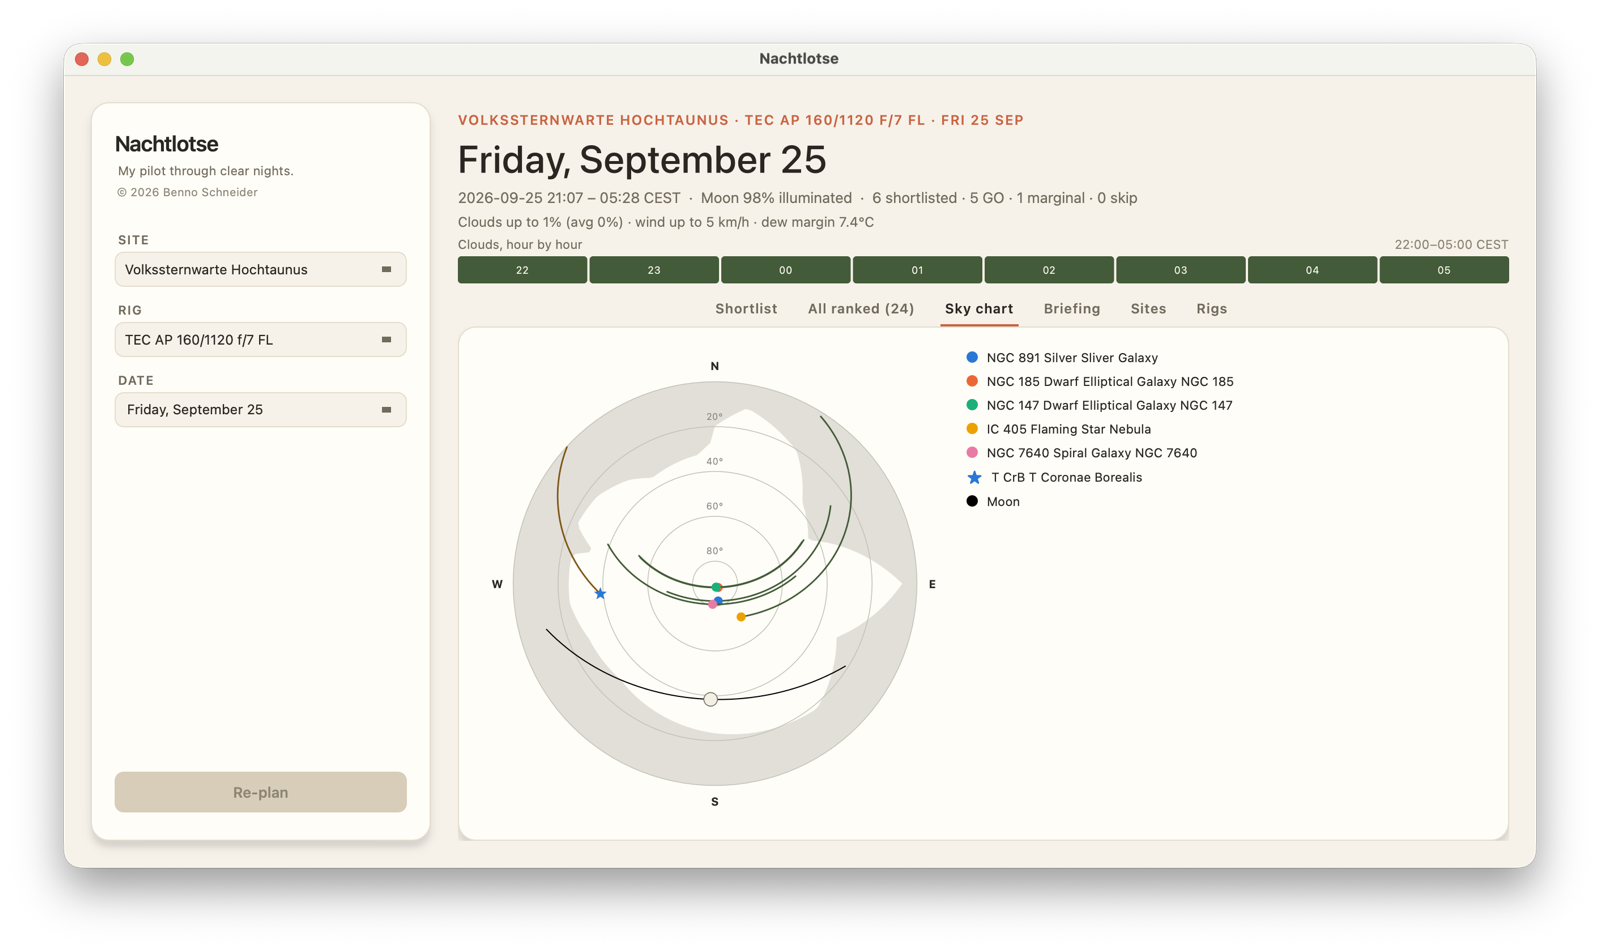
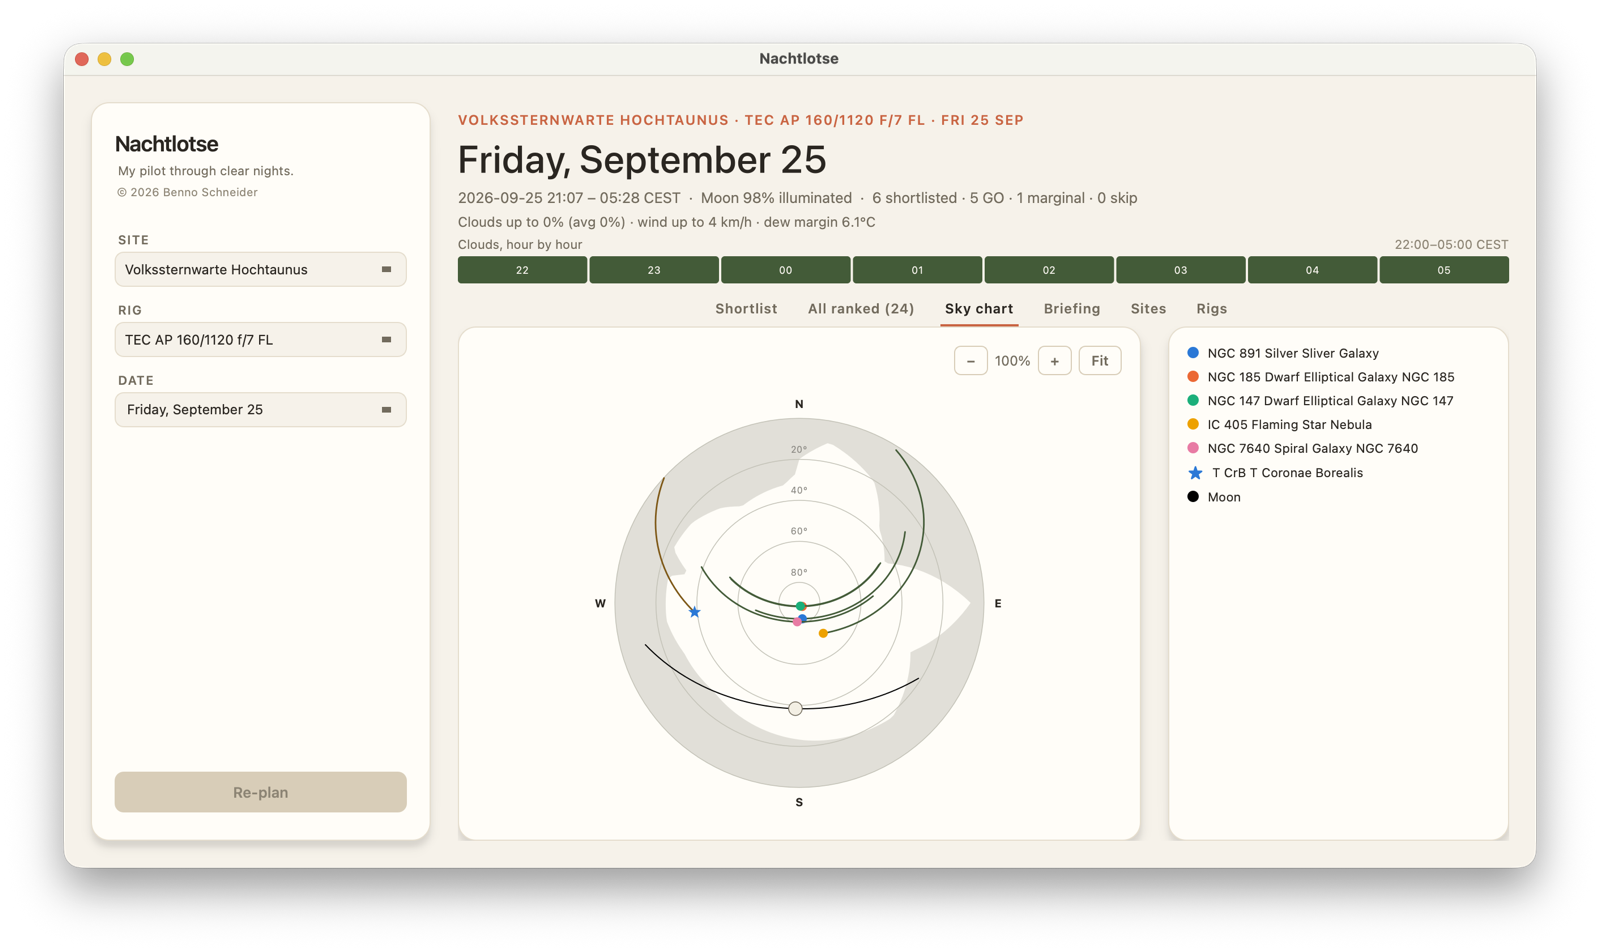
Sky chart: split into a chart panel and a legend panel, add zoom
Auto-fitting the canvas to window height alone stalled well short of
a maximized window's available space, and sharing one card with the
legend capped the chart's width too. Two independent RoundedCards let
the chart fill its own panel in both dimensions; a −/Fit/+ row on top
gives manual control for when auto-fit still isn't the size wanted.

Regenerated both README screenshots to match.

Changed region(s): [[0.3125, 0.3655, 0.9062, 0.8529], [0.3438, 0.2132, 0.5625, 0.2437]]

diff --git a/nachtlotse/gui/sky_chart.py b/nachtlotse/gui/sky_chart.py
@@ -28,12 +28,19 @@ import math
 
 from PySide6.QtCore import QPointF, QRectF, Qt
 from PySide6.QtGui import QColor, QFont, QPainter, QPainterPath, QPen
-from PySide6.QtWidgets import QHBoxLayout, QLabel, QSizePolicy, QVBoxLayout, QWidget
+from PySide6.QtWidgets import (
+    QHBoxLayout,
+    QLabel,
+    QPushButton,
+    QSizePolicy,
+    QVBoxLayout,
+    QWidget,
+)
 
 from nachtlotse import charting
 from nachtlotse.engine import ephemeris
 from nachtlotse.gui import data_adapter
-from nachtlotse.gui.theme import COLORS, VERDICT_COLORS, RoundedCard
+from nachtlotse.gui.theme import COLORS, VERDICT_COLORS, RoundedCard, label_style
 from nachtlotse.planning import NightPlan, NightPlanForBestRig, is_favorite
 
 # Chart-space coordinates from `charting.project()` range roughly -98..98
@@ -122,27 +129,45 @@ class SkyChartCanvas(QWidget):
     `set_plan` — nothing is drawn until a plan with a non-empty
     shortlist arrives.
 
-    Kept square and pinned to the card's left edge: vertical size policy
-    is Expanding (fills the card's height, same as any QHBoxLayout
-    child), horizontal is Fixed — `resizeEvent` locks the width to match
-    the height on every resize (capped at `_MAX_SIZE`, so a tall window
-    doesn't inflate the chart far past a readable size), so the drawing
-    (already computed from `min(width, height)`, see `paintEvent`) never
-    sits in a canvas wider than it needs, and the legend column gets
-    that leftover width instead of empty card background.
+    Lives alone in its own `ChartPanel` card now (the legend moved out
+    to a separate `LegendPanel`), so both size policies are Expanding —
+    it simply fills whatever space that panel has, square or not
+    (`paintEvent` centers the circle and scales it from
+    `min(width, height)`, so any leftover width/height either side of
+    the drawn circle just reads as card padding). `_zoom` is an
+    additional multiplier on top of that fit-to-panel scale, driven by
+    `ChartPanel`'s +/Fit/− buttons — auto-fit alone (no cap, no manual
+    control) turned out not to be enough: a maximized window still left
+    users wanting a *specific* size, not just "as big as the panel
+    allows."
     """
 
-    _MAX_SIZE = 460
+    _ZOOM_MIN = 0.5
+    _ZOOM_MAX = 3.0
+    _ZOOM_STEP = 0.25
 
     def __init__(self) -> None:
         super().__init__()
         self._plan: NightPlan | NightPlanForBestRig | None = None
-        self.setMinimumSize(320, 320)
-        self.setSizePolicy(QSizePolicy.Fixed, QSizePolicy.Expanding)
+        self._zoom = 1.0
+        self.setMinimumSize(240, 240)
+        self.setSizePolicy(QSizePolicy.Expanding, QSizePolicy.Expanding)
 
-    def resizeEvent(self, event) -> None:
-        super().resizeEvent(event)
-        self.setFixedWidth(min(self.height(), self._MAX_SIZE))
+    @property
+    def zoom(self) -> float:
+        return self._zoom
+
+    def zoom_in(self) -> None:
+        self._zoom = min(self._ZOOM_MAX, round(self._zoom + self._ZOOM_STEP, 2))
+        self.update()
+
+    def zoom_out(self) -> None:
+        self._zoom = max(self._ZOOM_MIN, round(self._zoom - self._ZOOM_STEP, 2))
+        self.update()
+
+    def zoom_reset(self) -> None:
+        self._zoom = 1.0
+        self.update()
 
     def set_plan(self, plan: NightPlan | NightPlanForBestRig) -> None:
         self._plan = plan
@@ -160,7 +185,8 @@ class SkyChartCanvas(QWidget):
             return
 
         cx, cy = self.width() / 2.0, self.height() / 2.0
-        scale = (min(self.width(), self.height()) / 2.0 - 12) / _CHART_HALF_EXTENT
+        fit_scale = (min(self.width(), self.height()) / 2.0 - 12) / _CHART_HALF_EXTENT
+        scale = fit_scale * self._zoom
 
         def to_px(point: tuple[float, float]) -> QPointF:
             x, y = point
@@ -321,48 +347,102 @@ class SkyChartCanvas(QWidget):
         painter.drawEllipse(center, icon_r, icon_r)
 
 
-class SkyChartCard(RoundedCard):
-    """The chart canvas plus a legend column naming each shortlisted
-    entry and its track color."""
+def _zoom_button(text: str) -> QPushButton:
+    """A small outline button for the chart panel's zoom row — deliberately
+    quieter than `theme`'s filled clay buttons (Re-plan, Generate briefing):
+    those are the tab's one primary action, this is a secondary, repeatable
+    control that shouldn't compete with it for attention."""
+    button = QPushButton(text)
+    button.setFixedHeight(26)
+    button.setCursor(Qt.PointingHandCursor)
+    button.setStyleSheet(
+        f"""
+        QPushButton {{
+            background: transparent; color: {COLORS['ink_secondary']};
+            border: 1px solid {COLORS['border_strong']}; border-radius: 6px;
+            font-size: 12px; font-weight: 600; padding: 0 10px;
+        }}
+        QPushButton:hover {{ background: {COLORS['cream_hover']}; color: {COLORS['ink']}; }}
+        QPushButton:pressed {{ background: {COLORS['border']}; }}
+        QPushButton:disabled {{ color: {COLORS['ink_muted']}; border-color: {COLORS['border']}; }}
+        """
+    )
+    return button
+
+
+class ChartPanel(RoundedCard):
+    """The polar chart canvas plus a zoom row (−/Fit/+) above it — its own
+    card now, not sharing a row with the legend (see `SkyChartCard`), so
+    the canvas can fill the full panel in both directions instead of being
+    tied to height alone."""
 
     def __init__(self) -> None:
         super().__init__()
-        layout = QHBoxLayout(self)
-        # >= RoundedCard's own 16px border-radius: the canvas paints a
-        # square fillRect right to its own widget edges (QPainter has no
-        # idea the parent frame is rounded), so a smaller margin here
-        # lets that square corner visibly poke out past the frame's
-        # curve — same bug already fixed on the table cards
-        # (main_window._CARD_CONTENT_MARGIN).
+        layout = QVBoxLayout(self)
+        # >= RoundedCard's own 16px border-radius — see the matching note
+        # on `LegendPanel`/`main_window._CARD_CONTENT_MARGIN`: the canvas
+        # paints a square fillRect right to its own edges, so a smaller
+        # margin here would let that square corner poke out past the
+        # card's rounded curve.
         layout.setContentsMargins(16, 16, 16, 16)
-        layout.setSpacing(12)
+        layout.setSpacing(8)
+
+        zoom_row = QHBoxLayout()
+        zoom_row.setSpacing(6)
+        zoom_row.addStretch(1)
+        self._zoom_label = QLabel("100%")
+        self._zoom_label.setStyleSheet(
+            label_style(f"color: {COLORS['ink_secondary']}; font-size: 12px;")
+        )
+        self._zoom_out_button = _zoom_button("−")
+        self._zoom_reset_button = _zoom_button("Fit")
+        self._zoom_in_button = _zoom_button("+")
+        zoom_row.addWidget(self._zoom_out_button)
+        zoom_row.addWidget(self._zoom_label)
+        zoom_row.addWidget(self._zoom_in_button)
+        zoom_row.addWidget(self._zoom_reset_button)
+        layout.addLayout(zoom_row)
 
         self.canvas = SkyChartCanvas()
-        # No stretch: the canvas is square (see its own docstring) and
-        # takes only the width its Fixed size policy gives it — all
-        # leftover horizontal space goes to the legend below instead.
-        layout.addWidget(self.canvas)
+        layout.addWidget(self.canvas, stretch=1)
 
-        self._legend_layout = QVBoxLayout()
-        self._legend_layout.setContentsMargins(0, 4, 4, 4)
+        self._zoom_out_button.clicked.connect(self._on_zoom_out)
+        self._zoom_in_button.clicked.connect(self._on_zoom_in)
+        self._zoom_reset_button.clicked.connect(self._on_zoom_reset)
+        self._update_zoom_label()
+
+    def _on_zoom_out(self) -> None:
+        self.canvas.zoom_out()
+        self._update_zoom_label()
+
+    def _on_zoom_in(self) -> None:
+        self.canvas.zoom_in()
+        self._update_zoom_label()
+
+    def _on_zoom_reset(self) -> None:
+        self.canvas.zoom_reset()
+        self._update_zoom_label()
+
+    def _update_zoom_label(self) -> None:
+        zoom = self.canvas.zoom
+        self._zoom_label.setText(f"{round(zoom * 100)}%")
+        self._zoom_out_button.setEnabled(zoom > SkyChartCanvas._ZOOM_MIN)
+        self._zoom_in_button.setEnabled(zoom < SkyChartCanvas._ZOOM_MAX)
+
+
+class LegendPanel(RoundedCard):
+    """A column naming each shortlisted entry and its track color — split
+    out from the chart into its own card (see `SkyChartCard`) so the chart
+    panel isn't forced to share width with it."""
+
+    def __init__(self) -> None:
+        super().__init__()
+        self._legend_layout = QVBoxLayout(self)
+        self._legend_layout.setContentsMargins(16, 16, 16, 16)
         self._legend_layout.setSpacing(8)
         self._legend_layout.addStretch(1)
-        legend_container = QWidget()
-        # Same Qt quirk `theme.label_style` works around for QLabel and
-        # main_window._verdict_cell works around for its own container: a
-        # plain QWidget with no stylesheet of its own picks up an opaque
-        # default-palette background once any stylesheet exists anywhere
-        # in the app, instead of staying transparent over the card.
-        legend_container.setStyleSheet("background: transparent;")
-        legend_container.setLayout(self._legend_layout)
-        legend_container.setMinimumWidth(180)
-        layout.addWidget(legend_container, stretch=1)
 
-    def set_plan(self, plan: NightPlan | NightPlanForBestRig, local_tz) -> None:
-        self.canvas.set_plan(plan)
-        self._rebuild_legend(plan, local_tz)
-
-    def _rebuild_legend(self, plan: NightPlan | NightPlanForBestRig, local_tz) -> None:
+    def rebuild(self, plan: NightPlan | NightPlanForBestRig, local_tz) -> None:
         while self._legend_layout.count() > 1:
             item = self._legend_layout.takeAt(0)
             if item.widget():
@@ -421,3 +501,37 @@ class SkyChartCard(RoundedCard):
         name.setStyleSheet(f"color: {COLORS['ink']}; font-size: 11px; background: transparent;")
         row_layout.addWidget(name, stretch=1)
         return container
+
+
+class SkyChartCard(QWidget):
+    """The Sky chart tab's own content: `ChartPanel` and `LegendPanel`
+    side by side as two independent cards, not one shared card split by
+    an internal row — the chart previously had to fit itself into
+    whatever width the legend left over; as its own card it can fill the
+    panel fully in both directions (see `SkyChartCanvas`), and gets a
+    manual zoom control besides (`ChartPanel`'s −/Fit/+ row) rather than
+    relying on auto-fit-to-window alone.
+
+    A plain container, not itself a `RoundedCard` — `main_window.py`
+    hands this straight to `QTabWidget.addTab`, the same way it hands
+    other tabs a bare `RoundedCard`; here that's two cards side by side
+    instead of one, so this widget is just the QHBoxLayout gluing them
+    together, transparent over the tab pane.
+    """
+
+    def __init__(self) -> None:
+        super().__init__()
+        layout = QHBoxLayout(self)
+        layout.setContentsMargins(0, 0, 0, 0)
+        layout.setSpacing(24)  # matches MainWindow's own root.setSpacing(24)
+
+        self.chart_panel = ChartPanel()
+        layout.addWidget(self.chart_panel, stretch=2)
+
+        self.legend_panel = LegendPanel()
+        self.legend_panel.setMinimumWidth(220)
+        layout.addWidget(self.legend_panel, stretch=1)
+
+    def set_plan(self, plan: NightPlan | NightPlanForBestRig, local_tz) -> None:
+        self.chart_panel.canvas.set_plan(plan)
+        self.legend_panel.rebuild(plan, local_tz)
